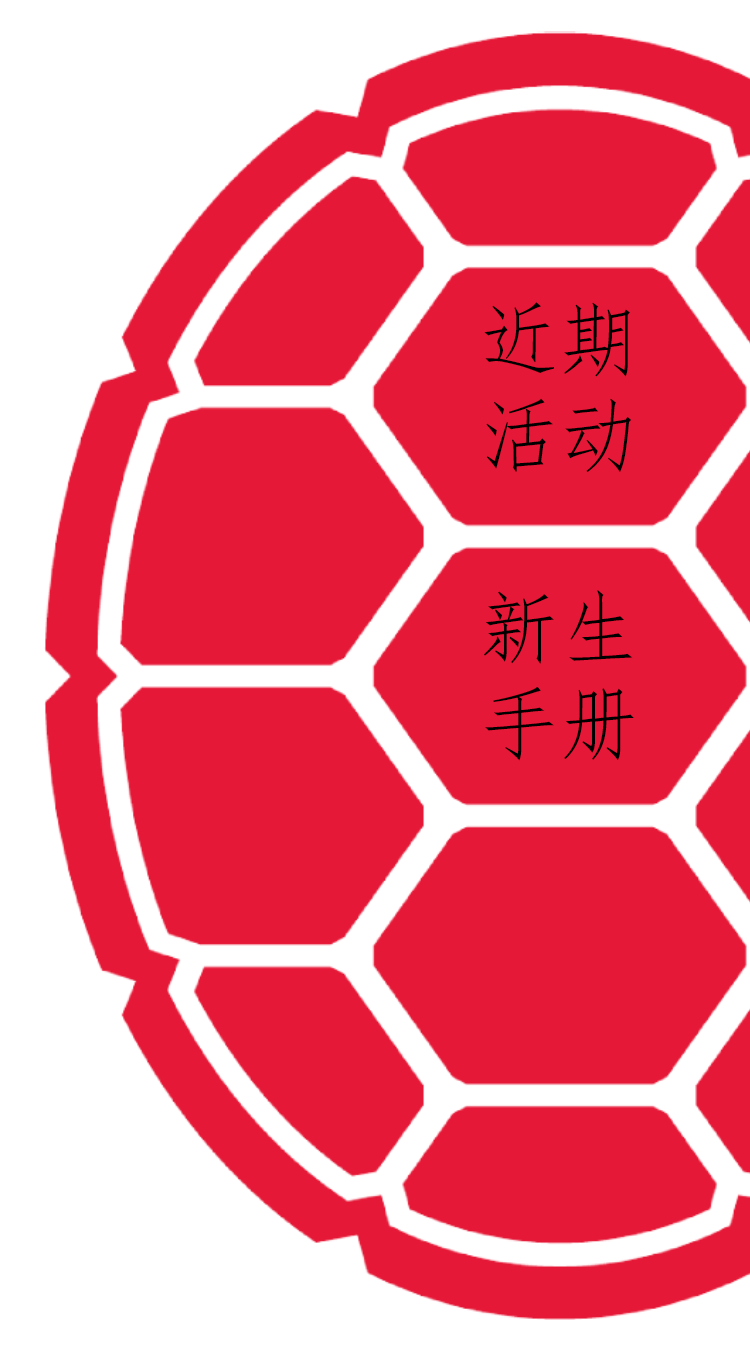
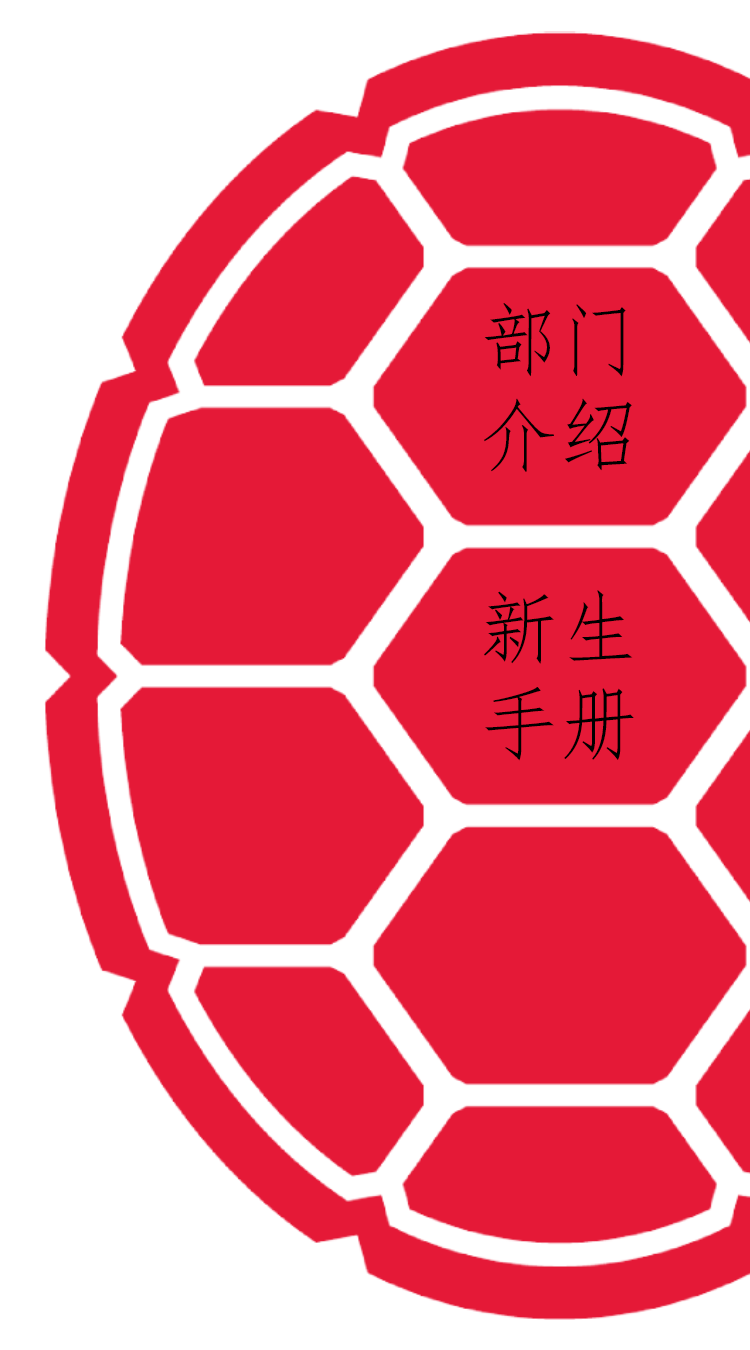
Merge Activity List and Depart Intro

Changed region(s): [[0.644, 0.2178, 0.8587, 0.3733]]

diff --git a/miniprogram/pages/mainPage/mainPage.js b/miniprogram/pages/mainPage/mainPage.js
@@ -41,7 +41,6 @@ Page({
       btnMarginTop4: _imgHeight / 5 + _btnHeight * 11 / 10 * 3,
     })
   },
-
   onClicked(event) {
     if (!event.detail)
       getApp().onError("evemt.detail not found!")
@@ -54,7 +53,9 @@ Page({
       && this.data.winWidth - x > this.data.btnMarginRight) {
 
       if (y < this.data.btnMarginTop2 && y > this.data.btnMarginTop1) {
-        console.warn("Button 1!")
+        wx.navigateTo({
+          url: '../departmentIntro/departmentIntro',
+        })
       }
 
       else if (y < this.data.btnMarginTop3 && y > this.data.btnMarginTop2) {

diff --git a/miniprogram/pages/activitylist/activitylist.js b/miniprogram/pages/activitylist/activitylist.js
@@ -7,14 +7,7 @@ Page({
   data: {
 
   },
-
-  /**
-   * 生命周期函数--监听页面加载
-   */
-  onLoad: function (options) {
-
-  },
-
+  
   /**
    * 生命周期函数--监听页面初次渲染完成
    */
